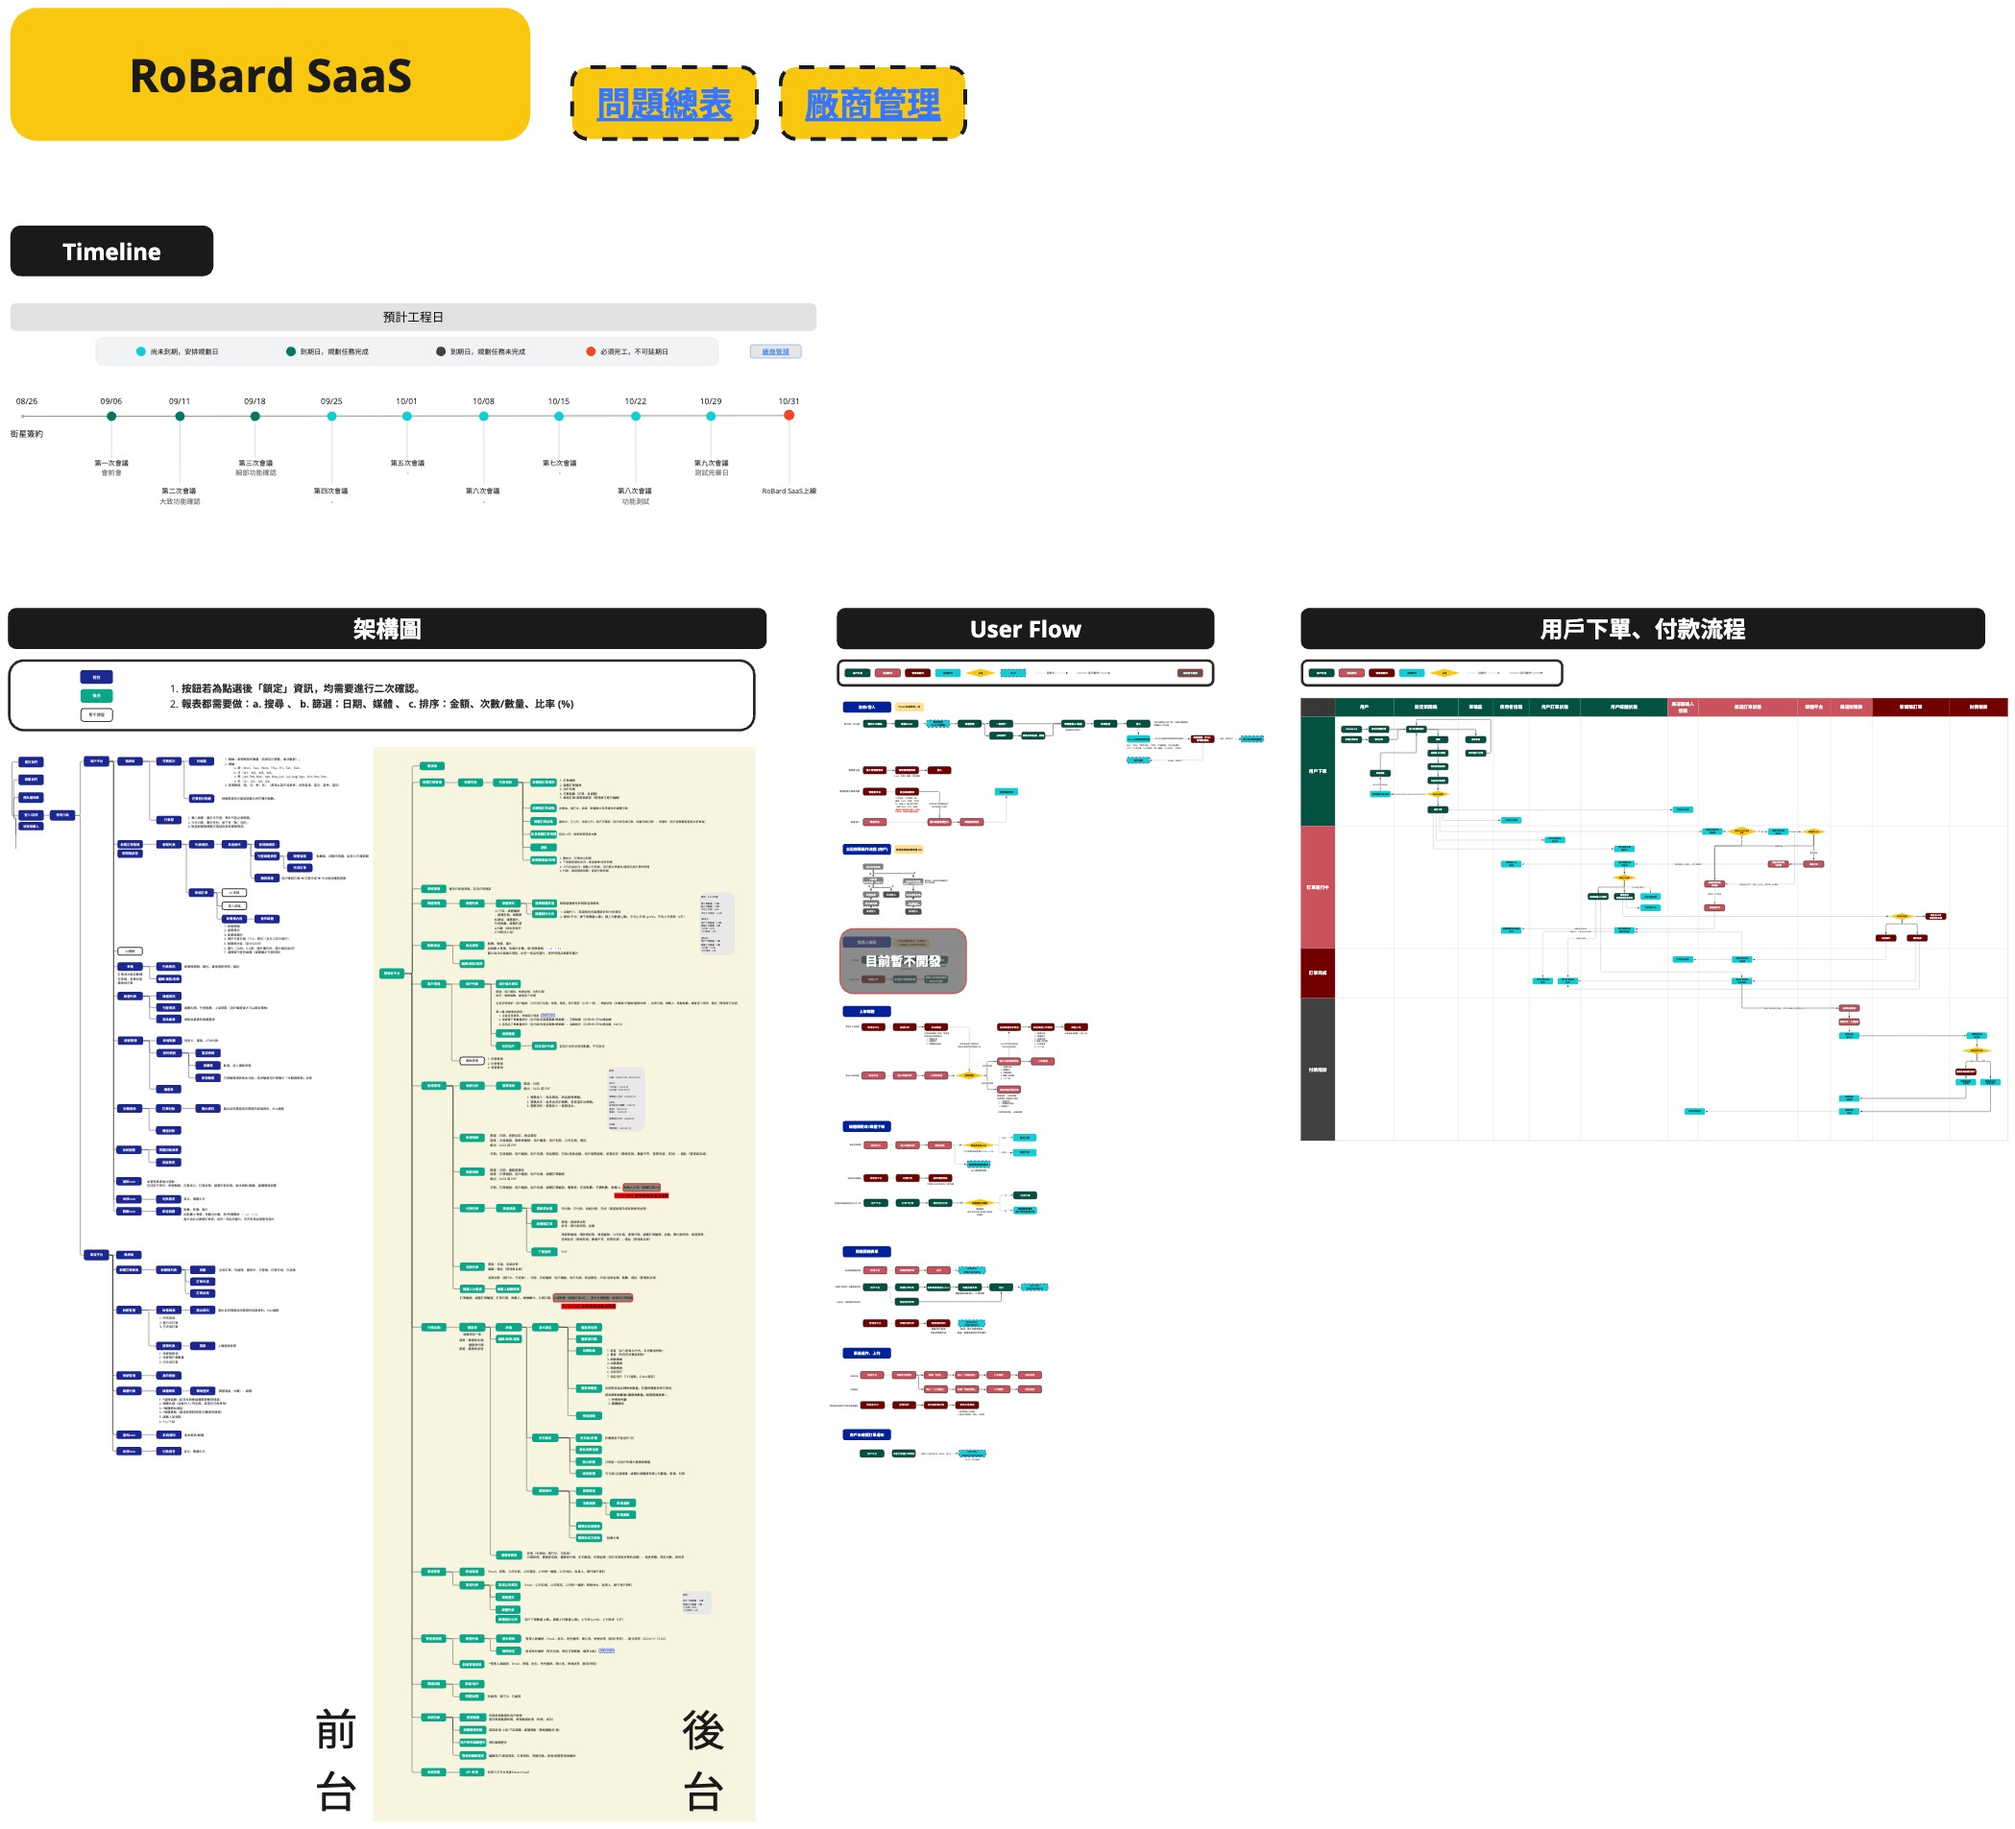
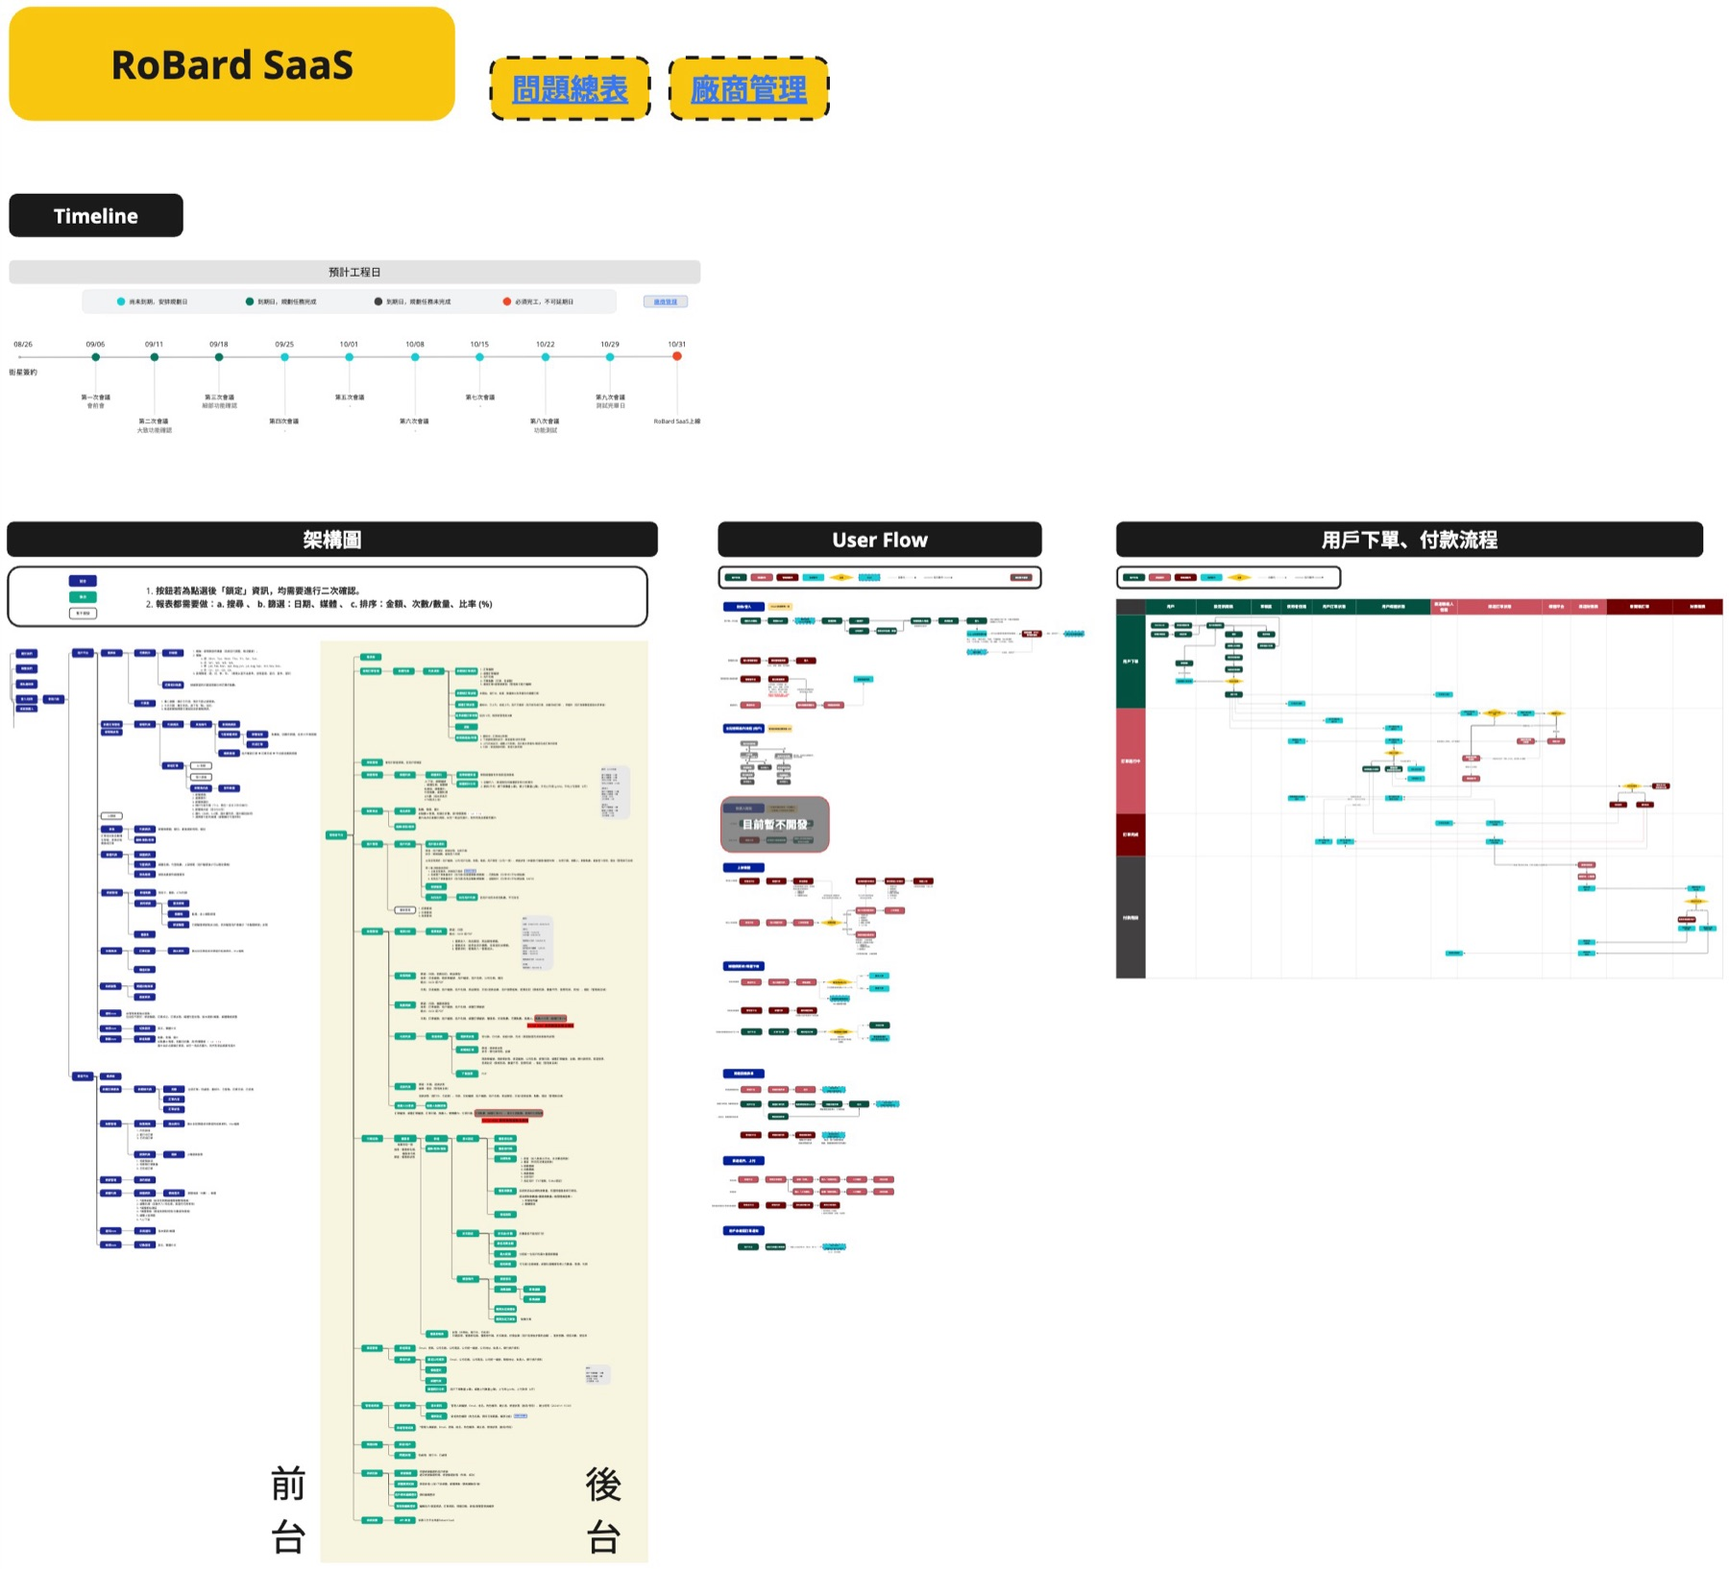
Perf + a11y pass: drop unused GSAP, shrink images 57%, trim fonts, focus rings
- Remove GSAP + ScrollTrigger (loaded but never used) — ~115KB JS and two
  fewer requests; smooth scroll (Lenis), scroll reveals (IntersectionObserver)
  and metric count-up (rAF) are unaffected.
- Resize oversized case images (img_4 was 7016px/1.8MB) and convert the heavy
  document PNGs to JPEG: image payload ~3080KB -> ~1330KB.
- Trim webfont request: Instrument Serif italic-only, drop unused DM Mono 300.
- Add :focus-visible outlines for keyboard users (custom cursor hides the
  system one).

Changed region(s): [[0.28, 0.0312, 0.3733, 0.0624], [0.4044, 0.0312, 0.4667, 0.0624]]

diff --git a/index.html b/index.html
@@ -29,7 +29,7 @@
 
 <link rel="preconnect" href="https://fonts.googleapis.com">
 <link rel="preconnect" href="https://fonts.gstatic.com" crossorigin>
-<link href="https://fonts.googleapis.com/css2?family=Space+Grotesk:wght@400;500;600;700&family=Instrument+Serif:ital@0;1&family=DM+Mono:wght@300;400;500&display=swap" rel="stylesheet">
+<link href="https://fonts.googleapis.com/css2?family=Space+Grotesk:wght@400;500;600;700&family=Instrument+Serif:ital@1&family=DM+Mono:wght@400;500&display=swap" rel="stylesheet">
 
 <script type="application/ld+json">
 {
@@ -266,6 +266,8 @@ footer{border-top:1px solid var(--line);padding:26px 0;display:flex;justify-cont
 
 .skip{position:absolute;left:-999px}.skip:focus{left:16px;top:16px;z-index:99999;background:var(--ink);color:var(--bg);padding:10px 14px;border-radius:8px}
 [hidden]{display:none!important}
+/* keyboard focus visibility (custom cursor hides the system one) */
+a:focus-visible,button:focus-visible,.visual:focus-visible,.theme-btn:focus-visible,.lb-docs a:focus-visible{outline:2px solid var(--accent);outline-offset:4px;border-radius:8px}
 </style>
 </head>
 <body>
@@ -373,13 +375,13 @@ footer{border-top:1px solid var(--line);padding:26px 0;display:flex;justify-cont
       </div>
       <button class="visual clickable" data-open data-cta="View artefacts">
         <div class="frame"><i></i><i></i><i></i><span class="cap">RoBard — Full Function Map</span></div>
-        <div class="shot"><img src="assets/img_1.png" alt="RoBard SaaS full feature specification map across modules" loading="lazy"></div>
+        <div class="shot"><img src="assets/img_1.jpg" alt="RoBard SaaS full feature specification map across modules" loading="lazy"></div>
         <span class="v-badge">Enlarge →</span>
         <span class="v-cta"><span>View artefacts <em style="font-style:normal">↗</em></span></span>
       </button>
     </div>
     <div class="case-more" hidden>
-      <div class="more-media"><img src="assets/img_1.png" alt="RoBard full function map"><img src="assets/img_2.jpg" alt="RoBard SaaS PRD"></div>
+      <div class="more-media"><img src="assets/img_1.jpg" alt="RoBard full function map"><img src="assets/img_2.jpg" alt="RoBard SaaS PRD"></div>
       <div class="more-text"><div class="dl">
         <div><h4>Problem</h4><p>JUKSY's editorial and marketing teams were bottlenecked by manual press-release workflows — hours of back-and-forth between writers, editors, finance and channel managers, with no unified platform to track orders, payments or publication status.</p></div>
         <div><h4>Solution</h4><p>A 3-sided marketplace connecting brands, media channels and JUKSY as operator, automating the full order-to-publication journey: brand submits brief → AI drafts content → editor reviews → one-click publish → auto payment settle.</p></div>
@@ -485,13 +487,13 @@ footer{border-top:1px solid var(--line);padding:26px 0;display:flex;justify-cont
       </div>
       <button class="visual clickable" data-open data-cta="View document">
         <div class="frame"><i></i><i></i><i></i><span class="cap">Dou Di Zhu — design doc</span></div>
-        <div class="shot"><img src="assets/img_4.png" alt="Dou Di Zhu game design document with scoring formula and user flow" loading="lazy"></div>
+        <div class="shot"><img src="assets/img_4.jpg" alt="Dou Di Zhu game design document with scoring formula and user flow" loading="lazy"></div>
         <span class="v-badge">Enlarge →</span>
         <span class="v-cta"><span>View document <em style="font-style:normal">↗</em></span></span>
       </button>
     </div>
     <div class="case-more" hidden>
-      <div class="more-media"><img src="assets/img_4.png" alt="Dou Di Zhu game design document"></div>
+      <div class="more-media"><img src="assets/img_4.jpg" alt="Dou Di Zhu game design document"></div>
       <div class="more-text"><div class="dl">
         <div><h4>Overview</h4><p>A comprehensive game design document for Dou Di Zhu (鬥地主) — rigorous product thinking applied to game mechanics: player roles, card hierarchy, scoring formulas, multiplier systems, special combos and the complete match flow from room selection to settlement.</p></div>
       </div></div>
@@ -573,8 +575,6 @@ footer{border-top:1px solid var(--line);padding:26px 0;display:flex;justify-cont
 </div>
 
 <script src="https://cdn.jsdelivr.net/npm/lenis@1.1.14/dist/lenis.min.js"></script>
-<script src="https://cdn.jsdelivr.net/npm/gsap@3.12.5/dist/gsap.min.js"></script>
-<script src="https://cdn.jsdelivr.net/npm/gsap@3.12.5/dist/ScrollTrigger.min.js"></script>
 <script>
 (function(){
   var reduce = window.matchMedia('(prefers-reduced-motion:reduce)').matches;
@@ -596,7 +596,6 @@ footer{border-top:1px solid var(--line);padding:26px 0;display:flex;justify-cont
     lenis=new Lenis({lerp:.1,smoothWheel:true});
     function raf(t){ lenis.raf(t); requestAnimationFrame(raf); }
     requestAnimationFrame(raf);
-    if(window.ScrollTrigger) lenis.on('scroll',ScrollTrigger.update);
   }
   document.querySelectorAll('a[href^="#"]').forEach(function(a){
     a.addEventListener('click',function(e){
